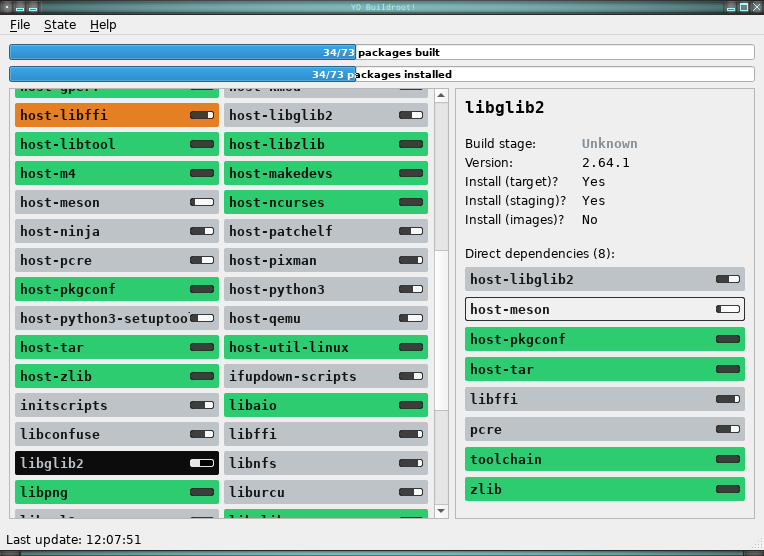
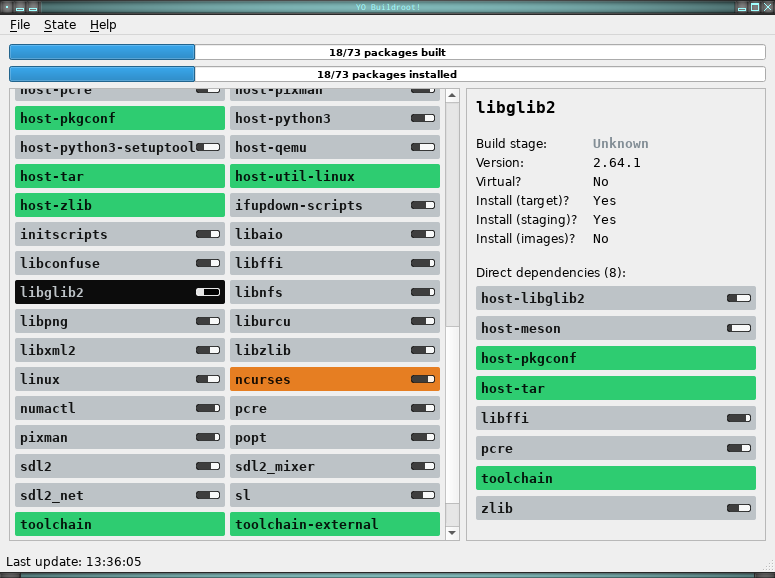
ui: _PkgBuildState: hide progress bar when package is built
It's just noisy to have all those full progress bar there.

diff --git a/yobr/ui.py b/yobr/ui.py
@@ -226,19 +226,23 @@ class _PkgBuildState(qtwidgets.QWidget):
         self._set_bg_lbl_stylesheet()
 
         # update progress bar
-        dep_built_count = 0
+        if stage in (yobr.br.PkgBuildStage.BUILT, yobr.br.PkgBuildStage.INSTALLED):
+            self._pbar.setVisible(False)
+        else:
+            dep_built_count = 0
 
-        for dep_pkg_info in self._pkg_build.info.dependencies:
-            dep_pkg_build = self._pkg_build_monitor.pkg_builds[dep_pkg_info.name]
+            for dep_pkg_info in self._pkg_build.info.dependencies:
+                dep_pkg_build = self._pkg_build_monitor.pkg_builds[dep_pkg_info.name]
 
-            if self._is_built(dep_pkg_build):
+                if self._is_built(dep_pkg_build):
+                    dep_built_count += 1
+
+            if self._is_built(self._pkg_build):
+                # this package build is part of its own dependencies
                 dep_built_count += 1
 
-        if self._is_built(self._pkg_build):
-            # this package build is part of its own dependencies
-            dep_built_count += 1
-
-        self._pbar.setValue(dep_built_count)
+            self._pbar.setValue(dep_built_count)
+            self._pbar.setVisible(True)
 
     def resizeEvent(self, event):
         res = super().resizeEvent(event)
